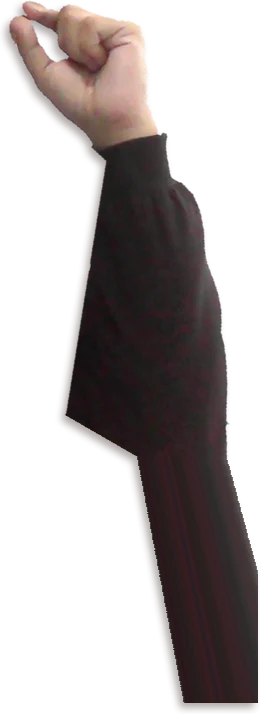
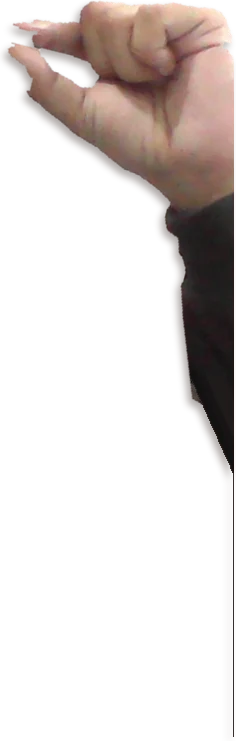
Rebake the hand from the new photo
The reshoot holds the glasses with the fingers clear of the frame, so
the cut keeps the tips this time and only rounds them a little. Retuned
for the new pose: the cut polygon, the grip point, a 14 degree swing
instead of 30 (the wrist is cocked differently, so straightening the
forearm any further pointed the fingers at the sky) and a hand scaled
to the face. The sleeve now carries on at the forearm's own angle
rather than a fixed 13 degrees.

diff --git a/components/ProfileShades.vue b/components/ProfileShades.vue
@@ -5,7 +5,7 @@
       <img src="/profile-shades-glasses.webp" alt="" width="287" height="102" class="profile-shades__art" :style="GLASSES_BOX">
     </div>
     <div ref="handEl" class="profile-shades__layer">
-      <img src="/profile-shades-hand.webp" alt="" width="260" height="714" class="profile-shades__art" :style="HAND_BOX">
+      <img src="/profile-shades-hand.webp" alt="" width="236" height="741" class="profile-shades__art" :style="HAND_BOX">
     </div>
   </div>
 </template>
@@ -25,7 +25,7 @@ import { nextTick, onBeforeUnmount, onMounted, ref, watch } from 'vue'
 
 /* Where each picture sits on the square photo, in % of its width */
 const GLASSES_BOX = { left: '30.56%', top: '23.75%', width: '39.86%' }
-const HAND_BOX = { left: '64.17%', top: '24.58%', width: '36.11%' }
+const HAND_BOX = { left: '67.50%', top: '19.86%', width: '32.78%' }
 /** Where the fingers pinch the glasses: both layers swing around this point */
 const PINCH = '68.3% 26.1%'
 

diff --git a/assets/profile-shades/source/2-bake.py b/assets/profile-shades/source/2-bake.py
@@ -4,18 +4,19 @@ Grades the webcam's grey skin up to the portrait's, swings the forearm towards v
 hand against the face, carries the sleeve past the bottom of the frame (the photo stops at the elbow)
 and adds the same drop shadow the SVG art used. Prints the HAND_BOX percentages for ProfileShades.vue.
 
-    python assets/profile-shades/source/2-bake.py -30 0.80
+    python assets/profile-shades/source/2-bake.py -14 0.95
 """
 import sys, math
 from PIL import Image, ImageFilter
 import numpy as np
 
 BAKE='assets/profile-shades/source'
-ROT   = float(sys.argv[1]) if len(sys.argv) > 1 else -30.0
-SCALE = float(sys.argv[2]) if len(sys.argv) > 2 else 0.80
+ROT   = float(sys.argv[1]) if len(sys.argv) > 1 else -14.0
+SCALE = float(sys.argv[2]) if len(sys.argv) > 2 else 0.95
 RENDER = 720                      # the photo's baking width, as in the SVG sources
 PX, PY = 0.683*RENDER, 0.261*RENDER
 SKIN_TARGET = np.array([200.0, 165.0, 150.0])   # the portrait's cheek, a shade darker
+PHOTO_ARM_LEAN = 39.0                           # the forearm's lean from vertical in 1.jpg
 
 # ---- grade: the webcam is grey and hazy next to the studio portrait
 cut = Image.open(BAKE+'/hand-cut.png')
@@ -41,7 +42,7 @@ cut = Image.merge('RGBA', (*rgbp.split(), cut.split()[-1]))
 # ---- rotate + scale, tracking where the fingers pinch
 import json
 ORIGIN = json.load(open(BAKE+'/hand-cut.json'))['origin']   # where 1-cut.py cropped
-PINCH_IN_PHOTO = (689, 305)                                 # where the fingers grip, in 1.jpg
+PINCH_IN_PHOTO = (666, 266)                                 # where the fingers grip, in 1.jpg
 pinch = (PINCH_IN_PHOTO[0]-ORIGIN[0], PINCH_IN_PHOTO[1]-ORIGIN[1])
 rot = cut.rotate(ROT, resample=Image.BICUBIC, expand=True)
 t = math.radians(ROT)
@@ -63,7 +64,9 @@ y_src = ys.max() - 46                      # a clean row above the diagonal cut
 xs = np.nonzero(al[y_src])[0]
 x0, x1 = xs.min(), xs.max()
 row = arr[y_src:y_src+1, x0:x1+1].copy()
-lean = math.radians(13)
+# the forearm leans 39 deg in the photo; after the rotation the extension must follow it
+lean = math.radians(PHOTO_ARM_LEAN + ROT)
+print(f'sleeve carried on at {math.degrees(lean):.1f} deg from vertical')
 for i, y in enumerate(range(y_src+1, RENDER + 160)):
     w = round((x1-x0+1) * (1 + 0.0009*i))
     x = round(x0 + i*math.tan(lean) - (w-(x1-x0+1))/2)

diff --git a/assets/profile-shades/source/1-cut.py b/assets/profile-shades/source/1-cut.py
@@ -17,8 +17,8 @@ a = np.asarray(im).astype(int)
 R,G,B = a[...,0],a[...,1],a[...,2]
 lum = (R*0.299+G*0.587+B*0.114)
 
-POLY=[(710,240),(900,240),(1000,330),(1080,470),(1160,600),(1215,720),(980,720),(865,420),
-      (760,395),(700,370),(690,345),(686,320),(690,296),(700,272)]
+POLY=[(715,150),(960,160),(1000,270),(1060,360),(1130,470),(1210,610),(1205,660),(945,580),
+      (915,500),(890,420),(830,395),(760,370),(700,330),(684,305),(668,288),(666,268),(668,248),(680,232),(700,200)]
 region = Image.new('L', im.size, 0)
 ImageDraw.Draw(region).polygon(POLY, fill=255)
 reg = np.asarray(region) > 0
@@ -26,7 +26,7 @@ reg = np.asarray(region) > 0
 fg = (((R-B > 12) & (lum < 210)) | (lum < 110)) & reg
 # A dark wedge of his spectacle frame sits on the index finger; the frame is not part of the hand
 yy, xx = np.mgrid[0:a.shape[0], 0:a.shape[1]]
-fg &= ~((xx >= 686) & (xx <= 710) & (yy >= 262) & (yy <= 300) & (lum < 125))
+fg &= ~((xx >= 664) & (xx <= 700) & (yy >= 232) & (yy <= 305) & (lum < 125))
 m = Image.fromarray((fg*255).astype('uint8'))
 m = m.filter(ImageFilter.MaxFilter(3)).filter(ImageFilter.MinFilter(3))
 m = m.filter(ImageFilter.MinFilter(3)).filter(ImageFilter.MaxFilter(3))
@@ -80,8 +80,8 @@ def round_tip(y0, y1, depth):
             shade = 1.0 - 0.13 * (i/d) ** 1.4          # the tip curves away from the light
             rgbf[y, x] = np.clip(edge * shade, 0, 255)
             keepf[y, x] = 1.0
-round_tip(289, 311, 13)   # index finger
-round_tip(311, 348, 13)   # thumb
+round_tip(238, 264, 11)   # index finger
+round_tip(264, 294, 11)   # thumb
 keep = keepf > 0.5
 im = Image.fromarray(rgbf.astype('uint8'))
 
